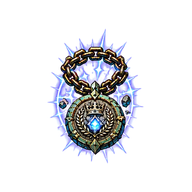
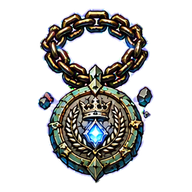
v0.7.2.0949: 거인왕 1페이즈 기술·묘비 개편·전설 아이콘 등 묶음 (0943~0949)
Claude-Session: https://claude.ai/code/session_019uRSFLWrzZj28M4a6gukjc

diff --git a/HANDOFF.md b/HANDOFF.md
@@ -174,4 +174,11 @@
 - v0.7.2.0938: ★6 아이콘 11종(item_h7_*.png) 연결 · 성채가 소환하는 정예 몹 이름표 → "성채 근위병" (로컬만, 푸시 보류).
 - v0.7.2.0939: 결과창 획득 아이템 칸 이름 → "★N 등급" (★6 전설) (로컬만, 푸시 보류).
 - v0.7.2.0940: 스테이지 7 카드 안내문 → "영웅아이템 점수 a/21 · 몬스터 강화 b%" + ? 버튼(설명 Modal) 시안 A 적용 (로컬만). 다음: 일격필살 컷인을 띠 대신 보스 양옆 글자 쾅쾅 연출로 바꾸는 시안 작업.
-- v0.7.2.0941: 성채 이름 통일(방패/투구/칼날 성채) · 시작 배너 "적 성채를 부수세요" (로컬만, 푸시 보류). 일격필살 컷인은 사용자가 그대로 두기로 함.
+- v0.7.2.0941: 성채 이름 통일(방패/투구/칼날 성채) · 시작 배너 "적 성채를 부수세요" (푸시 완료: 0937~0941 묶음 한 번에). 일격필살 컷인은 사용자가 그대로 두기로 함.
+- v0.7.2.0943: 거인왕 1페이즈 기술표 수치 적용(2·3페이즈 대기는 ×.83/.67 임시) · 강화 재료는 같은 등급끼리만(전설↔영웅 혼용 금지) (로컬만, 푸시 보류). 대기 시간 2·3페이즈 값은 사용자 확인 필요.
+- v0.7.2.0944: 거인왕 1페이즈 기술 5개(내려찍기·파동·방패후려치기·묘비·포효). 휩쓸기·불꽃은 minPh:2 임시. 사용자 방침: 페이즈별 최대 5개 — 2·3페이즈 구성 미정(확인 필요). (로컬만)
+- v0.7.2.0945: 묘비 예고 원 절벽 제외(추정: 사용자가 말한 "절벽 향하는 1페이즈 공격"). (로컬만)
+- v0.7.2.0946: 부위 파괴 기능 삭제(원래 부위 생성 호출이 없어 게임엔 안 나오던 코드). 푸시는 사용자가 말할 때까지 모아서 한 번에(현재 로컬 5커밋: 0942 표지는 푸시 제외 대상).
+- v0.7.2.0947: 묘비 개편(장판 5초·1%부터 0.5초마다 2배·7초 회복금지). 묘비 그림은 임시 도형 → 이미지 받으면 drawGmTomb에 연결. 설계 규칙: 회복 금지는 별말 없으면 항상 "물약·치유 오라만 회복"(hblk/hpLk). (로컬만)
+- v0.7.2.0948: 전설 아이콘 11종 크기 통일(빛 테두리 제거, 본체만 176px). 원본 시트는 사용자가 보낸 이미지(/tmp/h7_src.png는 세션 임시 파일). (로컬만)
+- v0.7.2.0949: 묘비 그림 적용(img/skill_tomb_fall.png 낙하, img/skill_tomb.png 박힌 모습; 원본은 사용자 이미지). 묘비 그림 대기 항목 해결. (로컬만)
